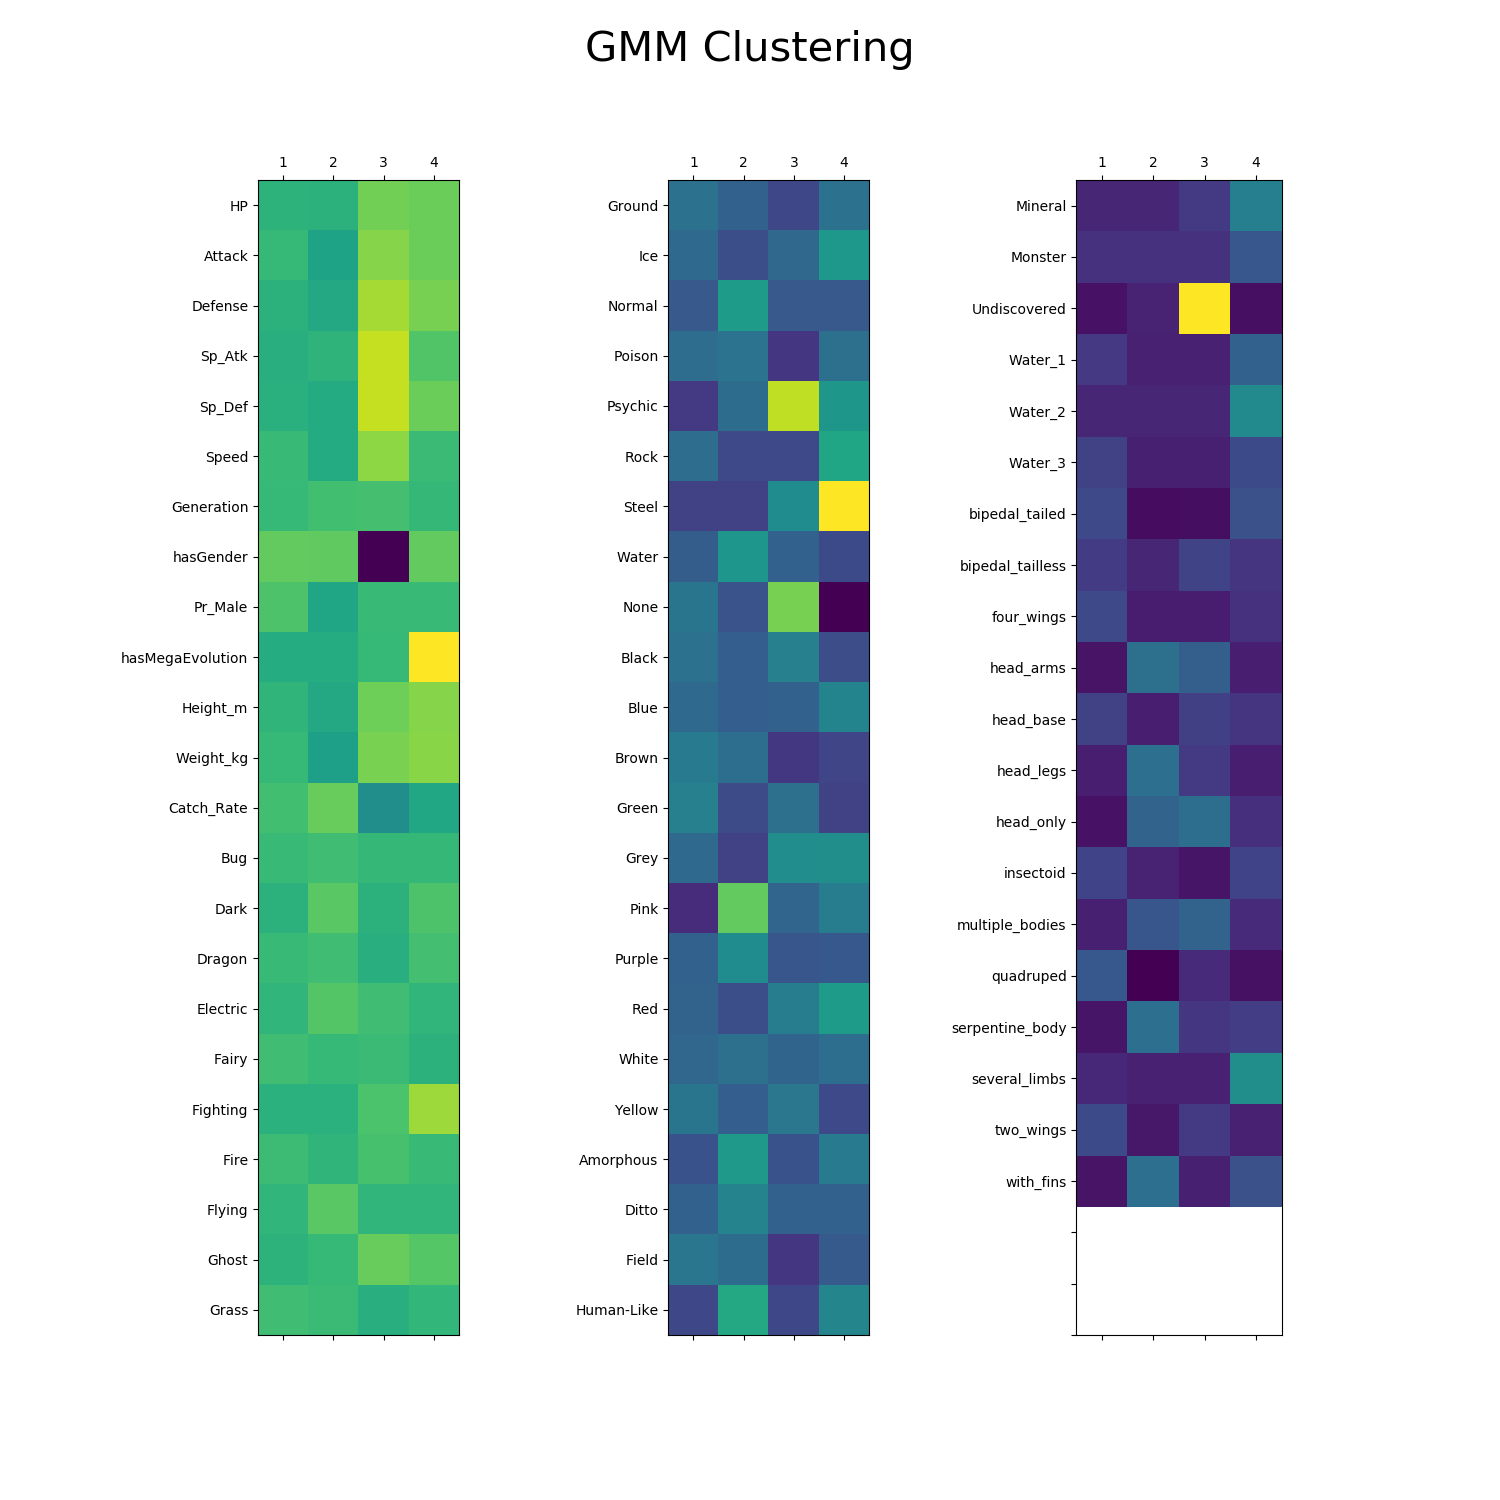
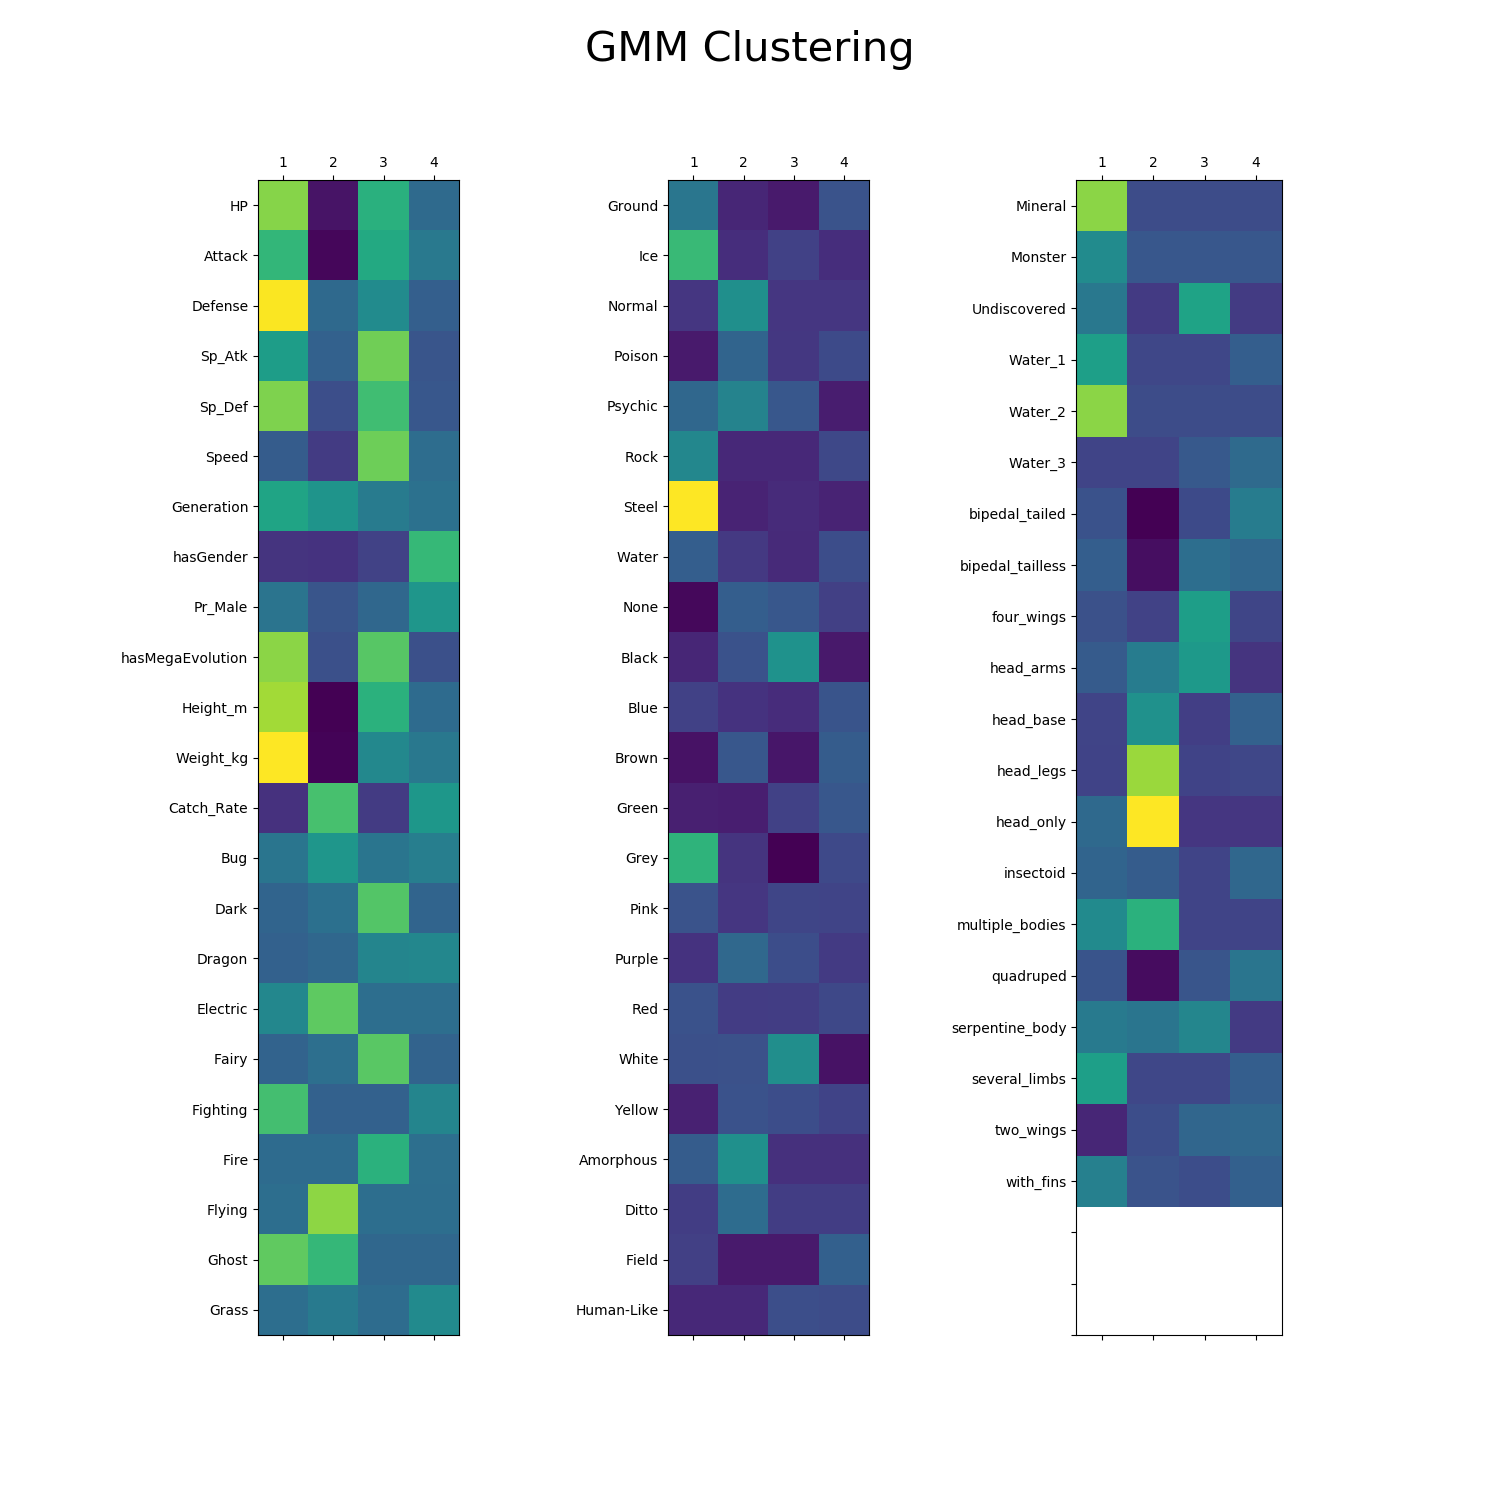
aflevering 3

Changed region(s): [[0.1533, 0.1227, 0.3067, 0.8893], [0.4293, 0.1227, 0.5827, 0.8893], [0.7053, 0.1227, 0.8587, 0.828]]

diff --git a/Scripts/test.py b/Scripts/test.py
@@ -1,0 +1,76 @@
+# exercise 11.1.5
+from matplotlib.pyplot import figure, plot, legend, xlabel, show
+import numpy as np
+from scipy.io import loadmat
+from sklearn.mixture import GaussianMixture
+from sklearn import model_selection
+
+from ProjectData import dNorm
+
+# Load Matlab data file and extract variables of interest
+"""
+mat_data = loadmat('../Data/synth1.mat')
+X = mat_data['X']
+y = mat_data['y'].squeeze()
+attributeNames = [name[0] for name in mat_data['attributeNames'].squeeze()]
+classNames = [name[0][0] for name in mat_data['classNames']]
+N, M = X.shape
+C = len(classNames)
+
+"""
+X = np.array(dNorm)
+X = X[:,0:4]
+
+# Range of K's to try
+KRange = range(1,11)
+T = len(KRange)
+
+covar_type = 'full'       # you can try out 'diag' as well
+reps = 3                  # number of fits with different initalizations, best result will be kept
+init_procedure = 'kmeans' # 'kmeans' or 'random'
+
+# Allocate variables
+BIC = np.zeros((T,))
+AIC = np.zeros((T,))
+CVE = np.zeros((T,))
+
+# K-fold crossvalidation
+CV = model_selection.KFold(n_splits=10,shuffle=True)
+
+for t,K in enumerate(KRange):
+        print('Fitting model for K={0}'.format(K))
+
+        # Fit Gaussian mixture model
+        gmm = GaussianMixture(n_components=K, covariance_type=covar_type, 
+                              n_init=reps, init_params=init_procedure,
+                              tol=1e-6, reg_covar=1e-6).fit(X)
+        
+        # Get BIC and AIC
+        BIC[t,] = gmm.bic(X)
+        AIC[t,] = gmm.aic(X)
+
+        # For each crossvalidation fold
+        for train_index, test_index in CV.split(X):
+
+            # extract training and test set for current CV fold
+            X_train = X[train_index]
+            X_test = X[test_index]
+
+            # Fit Gaussian mixture model to X_train
+            gmm = GaussianMixture(n_components=K, covariance_type=covar_type, n_init=reps).fit(X_train)
+
+            # compute negative log likelihood of X_test
+            CVE[t] += -gmm.score_samples(X_test).sum()
+            
+
+# Plot results
+
+figure(1); 
+plot(KRange, BIC,'-*b')
+plot(KRange, AIC,'-xr')
+plot(KRange, 2*CVE,'-ok')
+legend(['BIC', 'AIC', 'Crossvalidation'])
+xlabel('K')
+show()
+
+print('Ran Exercise 11.1.5')

diff --git a/Scripts/clustering.py b/Scripts/clustering.py
@@ -6,8 +6,9 @@ from scipy.cluster.hierarchy import linkage, fcluster, dendrogram
 from ProjectData import *
 import numpy as np
 from toolbox_02450 import clusterval
-
+from matplotlib import pyplot as plt
 # Load Matlab data file and extract variables of interest
+print(list(dNorm))
 dNorm = dNorm.drop("isLegendary",axis=1)
 
 
@@ -30,6 +31,8 @@ print(dNorm.shape)
 print(dOriginal.shape)
 
 attributeNames = list(dNorm)
+
+print(attributeNames)
 N, M = X.shape
 C = 2
 
@@ -51,17 +54,46 @@ clusterplot(X, b.reshape(b.shape[0],1), y=y)
 # Display dendrogram
 max_display_levels=20
 figure(2,figsize=(10,4))
-dendrogram(Z, truncate_mode='level', p=max_display_levels,color_threshold=10, labels=np.array(dOriginal["Name"]),leaf_font_size=10)
+dendrogram(Z, truncate_mode='level', p=max_display_levels,color_threshold=10,leaf_font_size=10,no_labels=True) #labels=np.array(dOriginal["Name"])
 show()
 
 Rand, Jaccard, NMI = clusterval(y,b)    
 print(Rand)
 print(Jaccard)
 print(NMI)
-print('Ran Exercise 10.2.1')
 
-
+print(b)
 legendaryGroups = b[dOriginal["isLegendary"]==True]
 for i in range(4):
     print("{} percent of group {} is legendary".format(round(sum(legendaryGroups == i+1)/sum(b==i+1)*100,2),i+1))
     print(sum(b==i+1))
+
+
+mean_data = np.zeros((dNorm.shape[1],4))
+
+for i in range(X.shape[1]):
+    X[:,i] = X[:,i] / np.std(X[:,i])
+
+for i in range(4):
+    mean_data[:,i] = np.mean(np.array(X[(i+1) == b,:]),axis=0)
+
+intervals = list(range(0,dNorm.shape[1],23))+[dNorm.shape[1]]
+
+figs, axs = plt.subplots(nrows = 1, ncols = 3)
+figs.set_figheight(15)
+figs.set_figwidth(15)
+for i in range(len(intervals)-1):
+    lower = intervals[i]
+    upper = intervals[i+1]
+    #print(type(axs))
+    
+    #col = i%3
+    ax = axs[i]
+    ax.matshow(mean_data[lower:upper])
+    ax.set_xticklabels(["","1","2","3","4"])
+    ax.set_yticks(range(23))
+    ax.set_yticklabels(attributeNames[lower:upper])
+
+figs.suptitle("Hirearchiral Clustering",fontsize=30)
+#figs.tight_layout()
+plt.savefig("../Figures/Means.png")

diff --git a/Scripts/GMM.py b/Scripts/GMM.py
@@ -9,6 +9,8 @@ from ProjectData import *
 from matplotlib.pyplot import cm
 from toolbox_02450 import clusterval
 
+
+print(list(dNorm))
 # Load Matlab data file and extract variables of interest
 selected_K = 4
 y = np.array(dNorm["isLegendary"],dtype=int)
@@ -21,11 +23,11 @@ C = len(classNames)
 
 centroid_data = np.zeros((dNorm.shape[0],selected_K))
 # Range of K's to try
-KRange = [4]
+KRange = [selected_K]
 T = len(KRange)
 
 covar_type = 'full'       # you can try out 'diag' as well
-reps = 3                  # number of fits with different initalizations, best result will be kept
+reps = 10                  # number of fits with different initalizations, best result will be kept
 init_procedure = 'kmeans' # 'kmeans' or 'random'
 
 # Allocate variables
@@ -74,19 +76,19 @@ for t,K in enumerate(KRange):
             
 
 # Plot results
-"""
+
 figure(1); 
 plot(KRange, BIC,'-*b')
 plot(KRange, AIC,'-xr')
-#plot(KRange, 2*CVE,'-ok')
+plot(KRange, 2*CVE,'-ok')
 legend(['BIC', 'AIC'])
 xlabel('K')
-show()
+#show()
 
-"""
+
 
 b = gmm.predict(X)
-Rand, Jaccard, NMI = clusterval(b,y)   
+Rand, Jaccard, NMI = clusterval(y,b)   
 print(Rand)
 print(Jaccard)
 print(NMI)
@@ -101,7 +103,7 @@ figs.set_figwidth(15)
 for i in range(len(intervals)-1):
     lower = intervals[i]
     upper = intervals[i+1]
-    print(type(axs))
+    #print(type(axs))
     
     #col = i%3
     ax = axs[i]
@@ -112,6 +114,10 @@ for i in range(len(intervals)-1):
 
 figs.suptitle("GMM Clustering",fontsize=30)
 #figs.tight_layout()
-plt.savefig("../Figures/Centroids.png",transparent=True)
+plt.savefig("../Figures/Centroids.png")
 print('Ran Exercise 11.1.5')
-
+#print(b)
+legendaryGroups = b[dOriginal["isLegendary"]==True]
+for i in range(4):
+    print("{} percent of group {} is legendary".format(round(sum(legendaryGroups == i)/sum(b==i)*100,2),i+1))
+    print(sum(b==i))

diff --git a/Scripts/OutlierDetection.py b/Scripts/OutlierDetection.py
@@ -28,7 +28,7 @@ for i,w in enumerate(widths):
 val = logP.max()
 ind = logP.argmax()
 
-width=widths[ind]
+width=0.7#widths[ind]
 print('Optimal estimated width is: {0}'.format(width))
 
 # evaluate density for estimated width
